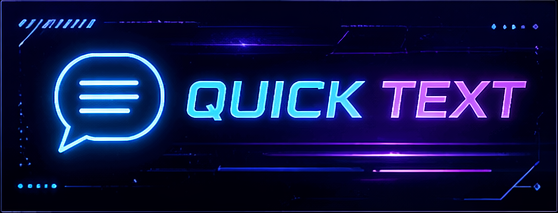
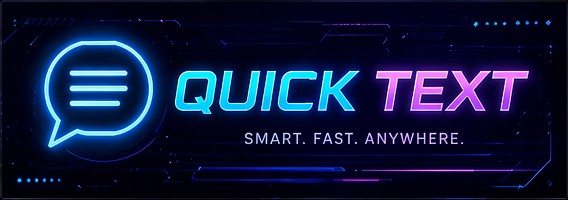
build: split all-in Kira LC installer art

diff --git a/installer/bootstrapper/MainWindow.xaml b/installer/bootstrapper/MainWindow.xaml
@@ -44,6 +44,10 @@
              Source="Assets/install-hero.png"
              Stretch="UniformToFill"
              Opacity="0.18" />
+      <Image Grid.ColumnSpan="2"
+             Source="Assets/noise-overlay.png"
+             Stretch="UniformToFill"
+             Opacity="0.08" />
       <Rectangle Grid.ColumnSpan="2">
         <Rectangle.Fill>
           <RadialGradientBrush Center="0.78,0.46" GradientOrigin="0.78,0.46" RadiusX="0.78" RadiusY="0.72">
@@ -161,28 +165,50 @@
                       Click="BrowseInstallPath" />
             </Grid>
 
-            <TextBlock x:Name="StatusText"
-                       Text="Ready to install."
-                       Margin="0,24,0,0"
-                       Foreground="#8CEEFF"
-                       FontFamily="Bahnschrift"
-                       FontSize="14"
-                       FontWeight="Bold" />
-            <ProgressBar x:Name="InstallProgress"
-                         Height="10"
-                         Minimum="0"
-                         Maximum="100"
-                         Value="0"
-                         Margin="0,10,0,0"
-                         Foreground="#5EE7FF"
-                         Background="#10192B"
-                         BorderBrush="#2B4168" />
-            <TextBlock x:Name="ProgressText"
-                       Text="Waiting for confirmation"
-                       Margin="0,10,0,0"
-                       Foreground="#7D8BA3"
-                       FontFamily="Segoe UI"
-                       FontSize="13" />
+            <Grid Margin="0,22,0,0">
+              <Grid.ColumnDefinitions>
+                <ColumnDefinition Width="82" />
+                <ColumnDefinition Width="*" />
+              </Grid.ColumnDefinitions>
+
+              <Border Width="68"
+                      Height="68"
+                      Background="#E807101F"
+                      BorderBrush="#2B77B8"
+                      BorderThickness="1"
+                      CornerRadius="34"
+                      HorizontalAlignment="Left"
+                      ClipToBounds="True">
+                <Image Source="Assets/progress-core.png"
+                       Stretch="UniformToFill"
+                       Opacity="0.9" />
+              </Border>
+
+              <StackPanel Grid.Column="1"
+                          VerticalAlignment="Center">
+                <TextBlock x:Name="StatusText"
+                           Text="Ready to install."
+                           Foreground="#8CEEFF"
+                           FontFamily="Bahnschrift"
+                           FontSize="14"
+                           FontWeight="Bold" />
+                <ProgressBar x:Name="InstallProgress"
+                             Height="10"
+                             Minimum="0"
+                             Maximum="100"
+                             Value="0"
+                             Margin="0,10,0,0"
+                             Foreground="#5EE7FF"
+                             Background="#10192B"
+                             BorderBrush="#2B4168" />
+                <TextBlock x:Name="ProgressText"
+                           Text="Waiting for confirmation"
+                           Margin="0,10,0,0"
+                           Foreground="#7D8BA3"
+                           FontFamily="Segoe UI"
+                           FontSize="13" />
+              </StackPanel>
+            </Grid>
           </StackPanel>
         </Border>
 
@@ -220,11 +246,16 @@
                 BorderThickness="1"
                 CornerRadius="34"
                 Effect="{StaticResource NeonPinkShadow}" />
-        <Image Source="Assets/install-hero.png"
+        <Image x:Name="HeroImage"
+               Source="Assets/install-hero.png"
                Stretch="UniformToFill"
                Margin="1"
                ClipToBounds="True"
                Opacity="0.96" />
+        <Image Source="Assets/frame-overlay.png"
+               Stretch="Fill"
+               Margin="18"
+               Opacity="0.58" />
         <Rectangle>
           <Rectangle.Fill>
             <LinearGradientBrush StartPoint="0,0" EndPoint="0,1">
@@ -233,15 +264,13 @@
             </LinearGradientBrush>
           </Rectangle.Fill>
         </Rectangle>
-        <TextBlock Text="QUICK TEXT MODULE"
-                   HorizontalAlignment="Left"
-                   VerticalAlignment="Bottom"
-                   Margin="36,0,0,44"
-                   Foreground="#EAFBFF"
-                   FontFamily="Bahnschrift"
-                   FontSize="22"
-                   FontWeight="Bold"
-                   Effect="{StaticResource NeonCyanShadow}" />
+        <Image x:Name="ModuleCardImage"
+               Source="Assets/quick-text-module-card.png"
+               Width="430"
+               HorizontalAlignment="Center"
+               VerticalAlignment="Bottom"
+               Margin="0,0,0,34"
+               Effect="{StaticResource NeonCyanShadow}" />
       </Grid>
     </Grid>
   </Border>

diff --git a/installer/bootstrapper/MainWindow.xaml.cs b/installer/bootstrapper/MainWindow.xaml.cs
@@ -2,6 +2,7 @@ using System.Diagnostics;
 using System.IO;
 using System.Windows;
 using System.Windows.Input;
+using System.Windows.Media.Imaging;
 using Forms = System.Windows.Forms;
 
 namespace QuickText.Setup;
@@ -15,6 +16,9 @@ public partial class MainWindow
 
     private bool _installComplete;
     private bool _installing;
+    private const string InstallHeroSource = "pack://application:,,,/Assets/install-hero.png";
+    private const string SuccessHeroSource = "pack://application:,,,/Assets/success-hero.png";
+    private const string ErrorHeroSource = "pack://application:,,,/Assets/error-hero.png";
 
     public MainWindow()
     {
@@ -86,6 +90,8 @@ public partial class MainWindow
         _installing = true;
         InstallButton.IsEnabled = false;
         InstallPathBox.IsEnabled = false;
+        HeroImage.Source = LoadAssetImage(InstallHeroSource);
+        ModuleCardImage.Opacity = 1;
         StatusText.Text = "Installing Quick Text module...";
         ProgressText.Text = "Preparing Kira LC setup engine";
         InstallProgress.Value = 6;
@@ -109,6 +115,8 @@ public partial class MainWindow
 
             _installComplete = true;
             InstallProgress.Value = 100;
+            HeroImage.Source = LoadAssetImage(SuccessHeroSource);
+            ModuleCardImage.Opacity = 0;
             StatusText.Text = "Quick Text is ready inside Kira LC.";
             ProgressText.Text = "Install complete";
             StepText.Text = "Module installed: Quick Text";
@@ -117,6 +125,8 @@ public partial class MainWindow
         catch (Exception error)
         {
             StatusText.Text = "Install failed.";
+            HeroImage.Source = LoadAssetImage(ErrorHeroSource);
+            ModuleCardImage.Opacity = 0;
             ProgressText.Text = error.Message;
             System.Windows.MessageBox.Show(
                 error.Message,
@@ -130,6 +140,11 @@ public partial class MainWindow
             InstallButton.IsEnabled = true;
             InstallPathBox.IsEnabled = true;
         }
+    }
+
+    private static BitmapImage LoadAssetImage(string source)
+    {
+        return new BitmapImage(new Uri(source, UriKind.Absolute));
     }
 
     private void LaunchQuickText()

diff --git a/installer/bootstrapper/ASSETS.md b/installer/bootstrapper/ASSETS.md
@@ -2,15 +2,20 @@
 
 `Kira LC` is the installer/launcher shell. `Quick Text` is the module installed by that shell.
 
+The canonical source image is `allin.png` at the repository root. Run:
+
+```powershell
+npm run assets:installer:allin
+```
+
+This splits the labeled regions in `allin.png` into the files below and syncs the NSIS fallback artwork in `installer/brand`.
+
 Current required slots:
 
 - `Assets/kira-lc-logo.png`: Kira LC launcher logo/masthead. Recommended `1600x900` or square art that still reads when cropped wide.
 - `Assets/install-hero.png`: main blue/cyan poster for the Quick Text install screen. Recommended `1800x2400` or taller portrait.
 - `Assets/brand-banner.png`: Quick Text module banner/logo. Recommended `1600x420`.
 - `Assets/uninstall-hero.png`: red uninstall/remove poster. Recommended `1800x2400` or taller portrait.
-
-Premium slots to add next:
-
 - `Assets/kira-lc-wordmark.png`: transparent Kira LC wordmark, `1800x420`.
 - `Assets/quick-text-module-card.png`: horizontal module card, `1600x900`.
 - `Assets/progress-core.png`: glowing install reactor/progress orb, transparent PNG, `1024x1024`.

diff --git a/installer/brand/README.md b/installer/brand/README.md
@@ -2,6 +2,14 @@
 
 Drop custom artwork in this folder before running `npm run build:win-icon`, `npm run dist:folder`, or `npm run dist:win`.
 
+If you are using the labeled all-in-one source image, place it at repository root as `allin.png` and run:
+
+```powershell
+npm run assets:installer:allin
+```
+
+That command refreshes this folder from the matching Kira LC bootstrapper artwork.
+
 Supported files:
 
 - `sidebar.png`, `sidebar.jpg`, `sidebar.jpeg`, or `sidebar.bmp`: main left installer poster art.
